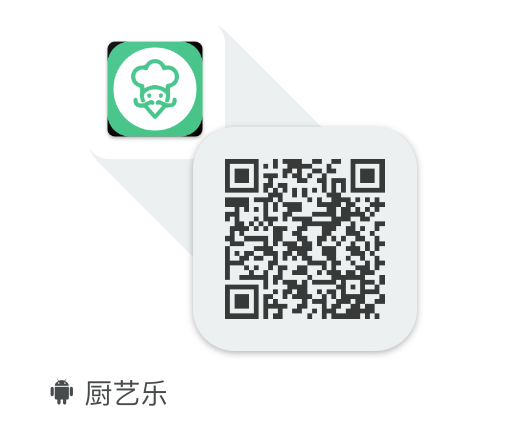
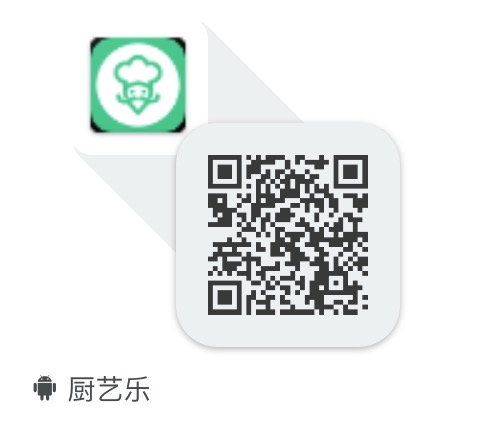
APK安装包图片调整；

diff --git a/flutter_cook/lib/module/book/views/book_home_cell.dart b/flutter_cook/lib/module/book/views/book_home_cell.dart
@@ -18,13 +18,13 @@ class BookHomeCell extends StatelessWidget {
             child: Wrap(
               children: [
                 Container(
-                    padding: EdgeInsets.all(10.0),
+                    padding: EdgeInsets.all(5.0),
                     color: CustomColors.bg2Color(),
                     child: Column(
                       children: [
                         SizedBox(height: 5.0),
                         Container(
-                            height: 105,
+                            height: 120,
                             child: GFImageOverlay(
                               image: NetworkImage(model.sceneBackground ?? ''),
                               boxFit: BoxFit.cover, //填充模式

diff --git a/flutter_cook/lib/module/book/book_home_page.dart b/flutter_cook/lib/module/book/book_home_page.dart
@@ -90,8 +90,8 @@ class _BookPageState extends State<BookPage> {
           child: GridView.builder(
             gridDelegate: SliverGridDelegateWithFixedCrossAxisCount(
               crossAxisCount: 2, // 设置每行显示的列数
-              crossAxisSpacing: 0.5, // 列间距
-              mainAxisSpacing: 0.5, // 行间距
+              crossAxisSpacing: 5.0, // 列间距
+              mainAxisSpacing: 5.0, // 行间距
             ),
             itemCount: dataList.length, // 项数
             itemBuilder: (context, index) {

diff --git a/README.md b/README.md
@@ -14,9 +14,10 @@ Flutter 3.16.5 实现的美食烹饪APP，后续功能继续完善中....
 | -- | -- |
 |![image](https://github.com/developerjet/FlutterCookFun/blob/main/ScreenShot/iPhone_04.png)|![image](https://github.com/developerjet/FlutterCookFun/blob/main/ScreenShot/iPhone_05.png)|
 
-### APK安装
-- 厨艺乐
-![image](https://github.com/developerjet/FlutterCookFun/blob/main/ScreenShot/Install_apk.jpg)|
+### APP安装
+| APK |
+| -- |
+|![image](https://github.com/developerjet/FlutterCookFun/blob/main/ScreenShot/Install_apk.jpg)|
 
 
 ### 主要功能
